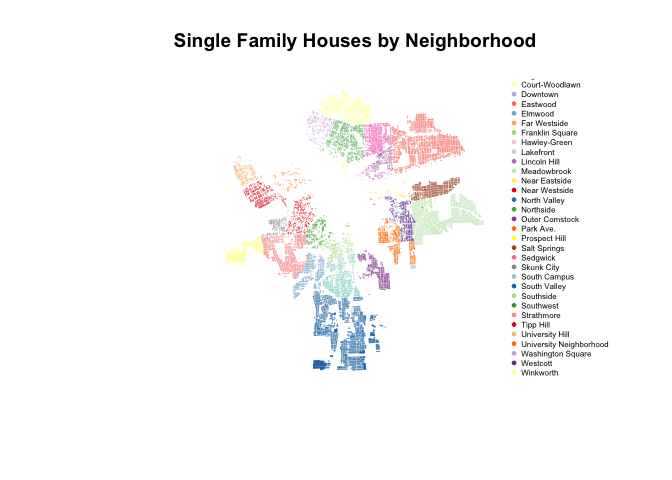
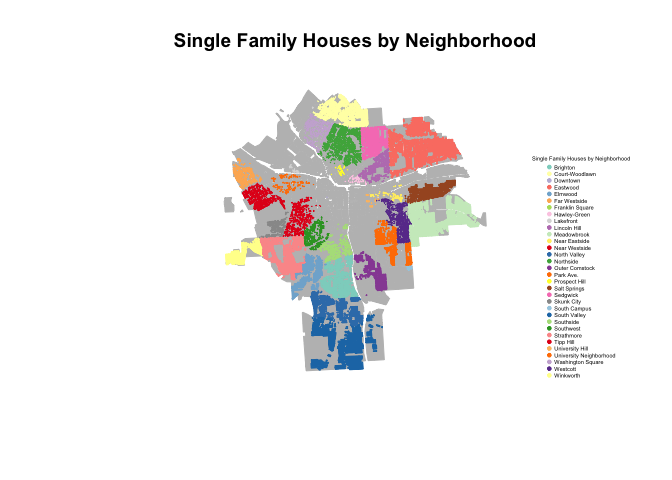
Lab04 fix

Changed region(s): [[0.3125, 0.1562, 0.9375, 0.8125]]

diff --git a/Lab04.md b/Lab04.md
@@ -123,14 +123,19 @@ summarize(datGrouped, total = n())
 
 ``` r
 mySingles <- syr[syr$LandUse == "Single Family", ]
+notSingles <- syr[syr$LandUse != "Single Family", ]
+
+plot(notSingles, col = "grey", border = "grey", main = "Single Family Houses by Neighborhood")
+
+
 
 myPallete <- c(brewer.pal(12, "Set3"), brewer.pal(9, "Set1"), brewer.pal(12, "Paired"))
 
 palette(myPallete)
 
-plot(mySingles, col = as.factor(mySingles$Nhood), border = F, main = "Single Family Houses by Neighborhood")
+plot(mySingles, col = as.factor(mySingles$Nhood), border = as.factor(mySingles$Nhood), add = T)
 legend( "bottomright", bg="white",
-        pch=19, pt.cex=.5, cex=.5,
+        pch=19, pt.cex=.5, cex=.35,
         legend=levels(mySingles$Nhood), 
         col=palette(), 
         box.col="white",
@@ -145,24 +150,49 @@ Question 2: Where does land in Syracuse have the highest value?
 • Create a table of the count of single family homes with values above $200k in each neighborhood, as a pecentage of all single family homes
 
 ``` r
- myTable <- summarize(datGrouped, total = n(), homesAbove200 = sum(AssessedVa > 200000))
-arrange(myTable, desc(homesAbove200))
+ myTable <- summarize(datGrouped, total = n(), homesAbove200 = round(sum(AssessedVa > 200000)/nrow(mySingles)*100, digits = 3))
+
+myTable <- arrange(myTable, desc(homesAbove200))
+
+myTable$homesAbove200 <- paste(myTable$homesAbove200, "%", sep = "")
+
+print(myTable, n = 31)
 ```
 
     ## # A tibble: 31 × 3
     ##                      Nhood total homesAbove200
-    ##                     <fctr> <int>         <int>
-    ## 1                 Sedgwick   892           130
-    ## 2              Meadowbrook  1721            60
-    ## 3  University Neighborhood   803            17
-    ## 4               Strathmore  1475            16
-    ## 5                Winkworth   411            11
-    ## 6             Lincoln Hill   580             7
-    ## 7             South Valley  1605             5
-    ## 8           Outer Comstock   697             3
-    ## 9                Northside  1508             2
-    ## 10                Eastwood  3605             1
-    ## # ... with 21 more rows
+    ##                     <fctr> <int>         <chr>
+    ## 1                 Sedgwick   892        0.533%
+    ## 2              Meadowbrook  1721        0.246%
+    ## 3  University Neighborhood   803         0.07%
+    ## 4               Strathmore  1475        0.066%
+    ## 5                Winkworth   411        0.045%
+    ## 6             Lincoln Hill   580        0.029%
+    ## 7             South Valley  1605         0.02%
+    ## 8           Outer Comstock   697        0.012%
+    ## 9                Northside  1508        0.008%
+    ## 10                Eastwood  3605        0.004%
+    ## 11         University Hill    17        0.004%
+    ## 12                Brighton  1398            0%
+    ## 13          Court-Woodlawn  1859            0%
+    ## 14                Downtown     1            0%
+    ## 15                 Elmwood   909            0%
+    ## 16            Far Westside   471            0%
+    ## 17            Hawley-Green    52            0%
+    ## 18               Lakefront    24            0%
+    ## 19           Near Eastside    93            0%
+    ## 20           Near Westside   521            0%
+    ## 21            North Valley  1194            0%
+    ## 22               Park Ave.   167            0%
+    ## 23           Prospect Hill    29            0%
+    ## 24            Salt Springs  1029            0%
+    ## 25              Skunk City   345            0%
+    ## 26            South Campus    25            0%
+    ## 27               Southside   481            0%
+    ## 28               Southwest   419            0%
+    ## 29               Tipp Hill   785            0%
+    ## 30       Washington Square   425            0%
+    ## 31                Westcott   851            0%
 
 • Plot the value / acre of all parcels in Syracuse
 
@@ -204,7 +234,7 @@ datGrouped <- group_by(singles, Nhood)
          fiftyth = quantile(age, .5, na.rm = T),
          seventyFifth = quantile(age, .75, na.rm = T),
          ninetyth = quantile(age, .9, na.rm = T))
- 
+ options(tibble.width = Inf)
  myTable <- arrange(myTable, tenth)
  print(myTable, n = 45)
 ```
